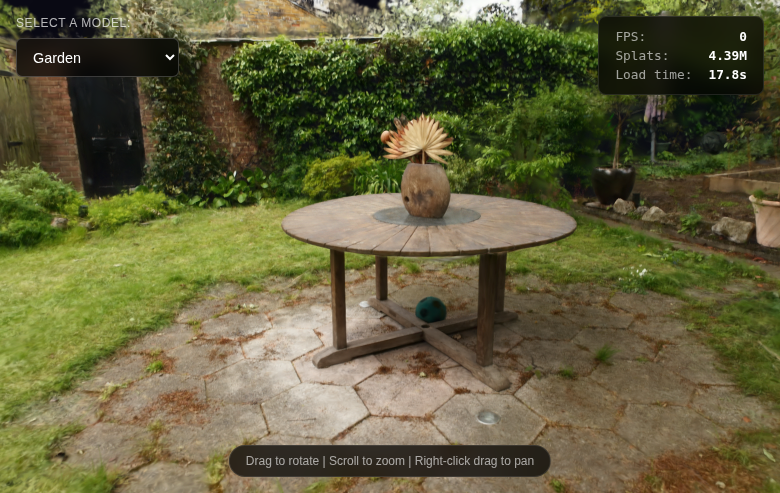
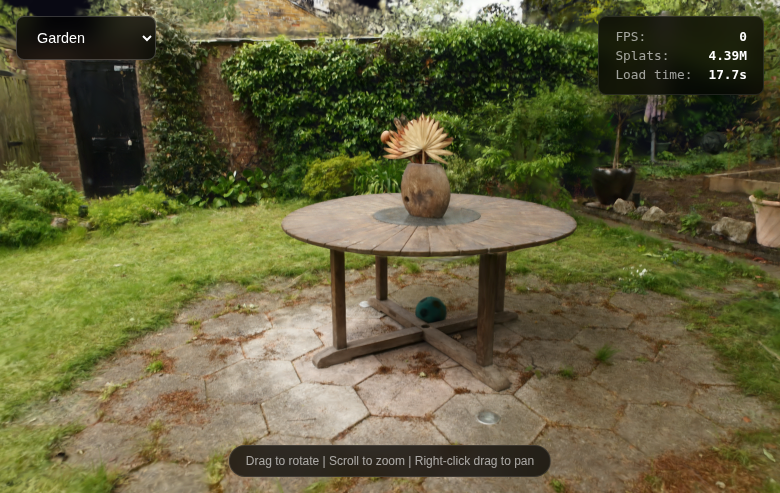
Remove model selector label and improve dropdown styling
- Remove "Select a Model:" label text as it's obvious
- Remove "Choose a model..." placeholder option
- Update dropdown padding to uniform 0.75rem 1rem
- Increase border-radius to 8px for consistency
- Update screenshot to reflect cleaner design

🤖 Generated with [Claude Code](https://claude.com/claude-code)

Changed region(s): [[0.0, 0.0304, 0.2462, 0.1826]]

diff --git a/src/App.css b/src/App.css
@@ -45,23 +45,15 @@
 .model-selector {
   display: flex;
   flex-direction: column;
-  gap: 0.5rem;
-}
-
-.model-selector-label {
-  font-size: 0.75rem;
-  color: rgba(255, 255, 255, 0.7);
-  text-transform: uppercase;
-  letter-spacing: 0.05em;
 }
 
 .model-selector-dropdown {
-  padding: 0.6rem 0.75rem;
+  padding: 0.75rem 1rem;
   font-size: 0.9rem;
   background-color: rgba(0, 0, 0, 0.7);
   color: #fff;
   border: 1px solid rgba(255, 255, 255, 0.2);
-  border-radius: 6px;
+  border-radius: 8px;
   cursor: pointer;
   transition: all 0.2s;
   min-width: 140px;
@@ -255,13 +247,9 @@
   }
 
   .model-selector-dropdown {
-    padding: 0.5rem 0.6rem;
+    padding: 0.5rem 0.75rem;
     font-size: 0.85rem;
     min-width: 120px;
-  }
-
-  .model-selector-label {
-    font-size: 0.65rem;
   }
 
   .stats-panel {

diff --git a/src/components/ModelSelector.tsx b/src/components/ModelSelector.tsx
@@ -15,9 +15,6 @@ export function ModelSelector({
 }: ModelSelectorProps) {
   return (
     <div className="model-selector">
-      <label htmlFor="model-select" className="model-selector-label">
-        Select a model:
-      </label>
       <select
         id="model-select"
         className="model-selector-dropdown"
@@ -30,9 +27,6 @@ export function ModelSelector({
         }}
         disabled={disabled}
       >
-        <option value="" disabled>
-          Choose a model...
-        </option>
         {models.map((model) => (
           <option key={model.name} value={model.name}>
             {model.name}
